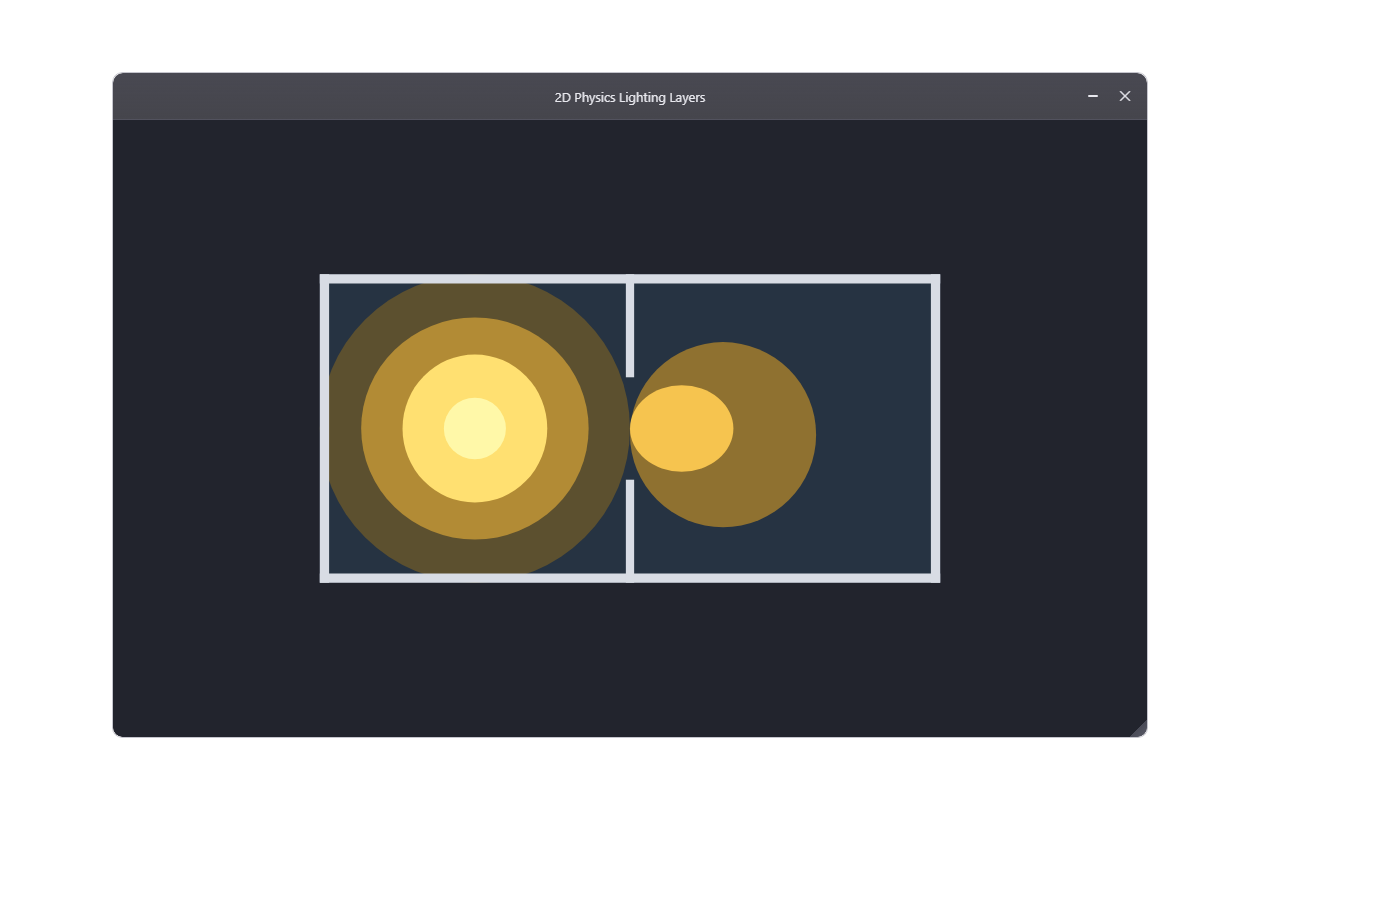
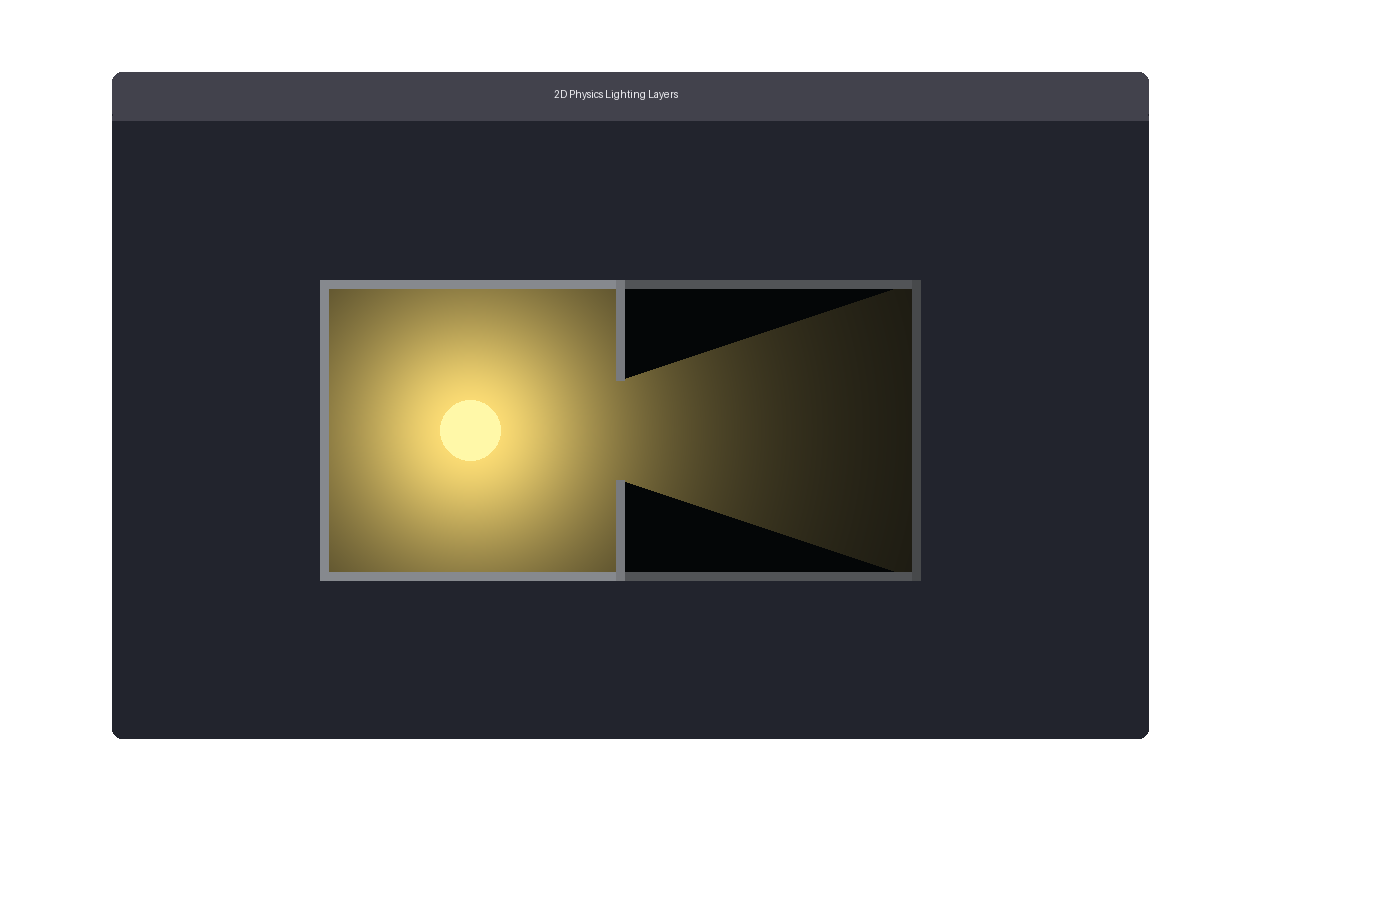
Render lighting proof from occlusion simulation

Changed region(s): [[0.215, 0.28, 0.6757, 0.6533], [0.3993, 0.0933, 0.4914, 0.1244], [0.7986, 0.8089, 0.8293, 0.84]]

diff --git a/scripts/render_readme_ui_assets.py b/scripts/render_readme_ui_assets.py
@@ -5,6 +5,7 @@ import contextlib
 import http.server
 import json
 import logging
+import math
 import os
 import socket
 import subprocess
@@ -327,6 +328,107 @@ def _capture_png_from_root(root: Path, out_path: Path, *, viewport: tuple[int, i
             httpd.server_close()
 
 
+def _segments_intersect(
+    a: tuple[float, float],
+    b: tuple[float, float],
+    c: tuple[float, float],
+    d: tuple[float, float],
+) -> bool:
+    def orient(p: tuple[float, float], q: tuple[float, float], r: tuple[float, float]) -> float:
+        return (q[0] - p[0]) * (r[1] - p[1]) - (q[1] - p[1]) * (r[0] - p[0])
+
+    o1 = orient(a, b, c)
+    o2 = orient(a, b, d)
+    o3 = orient(c, d, a)
+    o4 = orient(c, d, b)
+    return (o1 > 0) != (o2 > 0) and (o3 > 0) != (o4 > 0)
+
+
+def _render_physics_layer_lighting_simulation(out_path: Path) -> None:
+    from PIL import Image, ImageDraw
+
+    width, height = 1400, 900
+    image = Image.new("RGB", (width, height), (255, 255, 255))
+    draw = ImageDraw.Draw(image)
+
+    frame = (112, 72, 1148, 738)
+    header_h = 48
+    body = (frame[0], frame[1] + header_h, frame[2], frame[3])
+    draw.rounded_rectangle(frame, radius=10, fill=(34, 36, 45))
+    draw.rounded_rectangle((frame[0], frame[1], frame[2], frame[1] + header_h), radius=10, fill=(66, 66, 76))
+    draw.rectangle((frame[0], frame[1] + header_h - 4, frame[2], frame[1] + header_h), fill=(66, 66, 76))
+    draw.text((frame[0] + 442, frame[1] + 16), "2D Physics Lighting Layers", fill=(238, 238, 242))
+
+    square = 300
+    left = (320, 280, 620, 580)
+    right = (620, 280, 920, 580)
+    light = (470.0, 430.0)
+    source_radius = square * 0.1
+    wall = 8
+    shared_wall_segments = [
+        ((620.0, 280.0), (620.0, 380.0)),
+        ((620.0, 480.0), (620.0, 580.0)),
+    ]
+
+    def inside_rooms(x: int, y: int) -> bool:
+        return (left[0] <= x < left[2] and left[1] <= y < left[3]) or (
+            right[0] <= x < right[2] and right[1] <= y < right[3]
+        )
+
+    def occluded(x: int, y: int) -> bool:
+        if x < right[0]:
+            return False
+        ray_end = (float(x), float(y))
+        return any(_segments_intersect(light, ray_end, a, b) for a, b in shared_wall_segments)
+
+    ambient = 0.12
+    light_color = (255.0, 221.0, 112.0)
+    floor_color = (38.0, 51.0, 66.0)
+    for y in range(body[1], body[3]):
+        for x in range(body[0], body[2]):
+            if not inside_rooms(x, y):
+                continue
+            dx = x - light[0]
+            dy = y - light[1]
+            dist = math.hypot(dx, dy)
+            visible = not occluded(x, y)
+            strength = 0.0 if not visible else 1.0 / (1.0 + (dist / 155.0) ** 2)
+            r = floor_color[0] * ambient + light_color[0] * strength
+            g = floor_color[1] * ambient + light_color[1] * strength
+            b = floor_color[2] * ambient + light_color[2] * strength
+            image.putpixel((x, y), (min(255, int(r)), min(255, int(g)), min(255, int(b))))
+
+    def wall_color(cx: float, cy: float) -> tuple[int, int, int]:
+        dist = math.hypot(cx - light[0], cy - light[1])
+        strength = 0.25 + 0.65 / (1.0 + (dist / 170.0) ** 2)
+        base = (216.0, 220.0, 228.0)
+        return tuple(min(255, int(v * strength)) for v in base)
+
+    wall_rects = [
+        (left[0], left[1], left[2], left[1] + wall),
+        (left[0], left[3] - wall, left[2], left[3]),
+        (left[0], left[1], left[0] + wall, left[3]),
+        (right[0], right[1], right[2], right[1] + wall),
+        (right[0], right[3] - wall, right[2], right[3]),
+        (right[2] - wall, right[1], right[2], right[3]),
+        (616, 280, 624, 380),
+        (616, 480, 624, 580),
+    ]
+    for rect in wall_rects:
+        cx = (rect[0] + rect[2]) / 2.0
+        cy = (rect[1] + rect[3]) / 2.0
+        draw.rectangle(rect, fill=wall_color(cx, cy))
+
+    sx0 = int(light[0] - source_radius)
+    sy0 = int(light[1] - source_radius)
+    sx1 = int(light[0] + source_radius)
+    sy1 = int(light[1] + source_radius)
+    draw.ellipse((sx0, sy0, sx1, sy1), fill=(255, 248, 168))
+
+    out_path.parent.mkdir(parents=True, exist_ok=True)
+    image.save(out_path)
+
+
 def _assert_rgb_near(actual: tuple[int, int, int], expected: tuple[int, int, int], *, tolerance: int) -> None:
     if any(abs(a - e) > tolerance for a, e in zip(actual, expected, strict=True)):
         raise RuntimeError(f"expected RGB near {expected}, got {actual}")
@@ -340,15 +442,15 @@ def _verify_physics_layer_lighting_capture(path: Path) -> None:
         raise RuntimeError(f"expected physics lighting proof to be 1400x900, got {image.size}")
 
     samples = {
-        "left square background": ((360, 320), (38, 51, 66), 10),
-        "right square background": ((820, 320), (38, 51, 66), 10),
-        "circular light source core": ((475, 430), (255, 248, 168), 10),
-        "left circular light ring": ((470, 360), (255, 224, 113), 10),
-        "light passing through gap": ((680, 430), (246, 196, 79), 10),
-        "shared edge first third": ((630, 320), (216, 220, 228), 10),
-        "shared edge middle-third gap": ((630, 430), (234, 187, 75), 10),
-        "shared edge last third": ((630, 530), (216, 220, 228), 10),
-        "right outer square boundary": ((935, 430), (216, 220, 228), 10),
+        "left floor lit by computed light": ((430, 360), (205, 180, 96), 10),
+        "circular light source": ((470, 430), (255, 248, 168), 10),
+        "shared edge first-third wall": ((620, 330), (120, 122, 126), 10),
+        "shared edge middle-third lit gap": ((620, 430), (136, 120, 65), 10),
+        "shared edge last-third wall": ((620, 530), (120, 122, 126), 10),
+        "right room shadow above cone": ((740, 330), (4, 6, 7), 10),
+        "right room light cone through gap": ((760, 430), (61, 55, 32), 10),
+        "right room shadow below cone": ((740, 530), (4, 6, 7), 10),
+        "right outer square wall": ((916, 430), (71, 73, 75), 10),
     }
     for label, (xy, expected, tolerance) in samples.items():
         try:
@@ -365,6 +467,11 @@ def _verify_rendered_asset(asset: ReadmeAsset, path: Path) -> None:
 def render_asset(asset: ReadmeAsset) -> Path:
     out_path = asset.output_path
     out_path.parent.mkdir(parents=True, exist_ok=True)
+    if asset.marker == "ui-physics-layer-lighting":
+        logging.info("render %s via computed 2D lighting simulation", asset.marker)
+        _render_physics_layer_lighting_simulation(out_path)
+        _verify_rendered_asset(asset, out_path)
+        return out_path
     try:
         logging.info("render %s via display runtime", asset.marker)
         scene_json, display_json = _scene_and_display_from_display_vkf(asset)

diff --git a/README.md b/README.md
@@ -1485,12 +1485,7 @@ d.add_frame(g, (0.0, 0.0, 0.01, 0.01), in_frame: f)
 f.draw_rect((0.00, 0.00, 1.00, 1.00), color: "#22242d")
 f.draw_rect((0.20, 0.25, 0.30, 0.50), color: "#263342")
 f.draw_rect((0.50, 0.25, 0.30, 0.50), color: "#263342")
-f.add_oval((0.20, 0.25, 0.30, 0.50), color: "#5c502f")
-f.add_oval((0.24, 0.32, 0.22, 0.36), color: "#b28b35")
-f.add_oval((0.28, 0.38, 0.14, 0.24), color: "#ffe071")
 f.add_oval((0.32, 0.45, 0.06, 0.10), color: "#fff8a8")
-f.add_oval((0.50, 0.36, 0.18, 0.30), color: "#8f7130")
-f.add_oval((0.50, 0.43, 0.10, 0.14), color: "#f6c44f")
 f.draw_rect((0.20, 0.25, 0.30, 0.015), color: "#d8dce4")
 f.draw_rect((0.20, 0.735, 0.30, 0.015), color: "#d8dce4")
 f.draw_rect((0.20, 0.25, 0.009, 0.50), color: "#d8dce4")